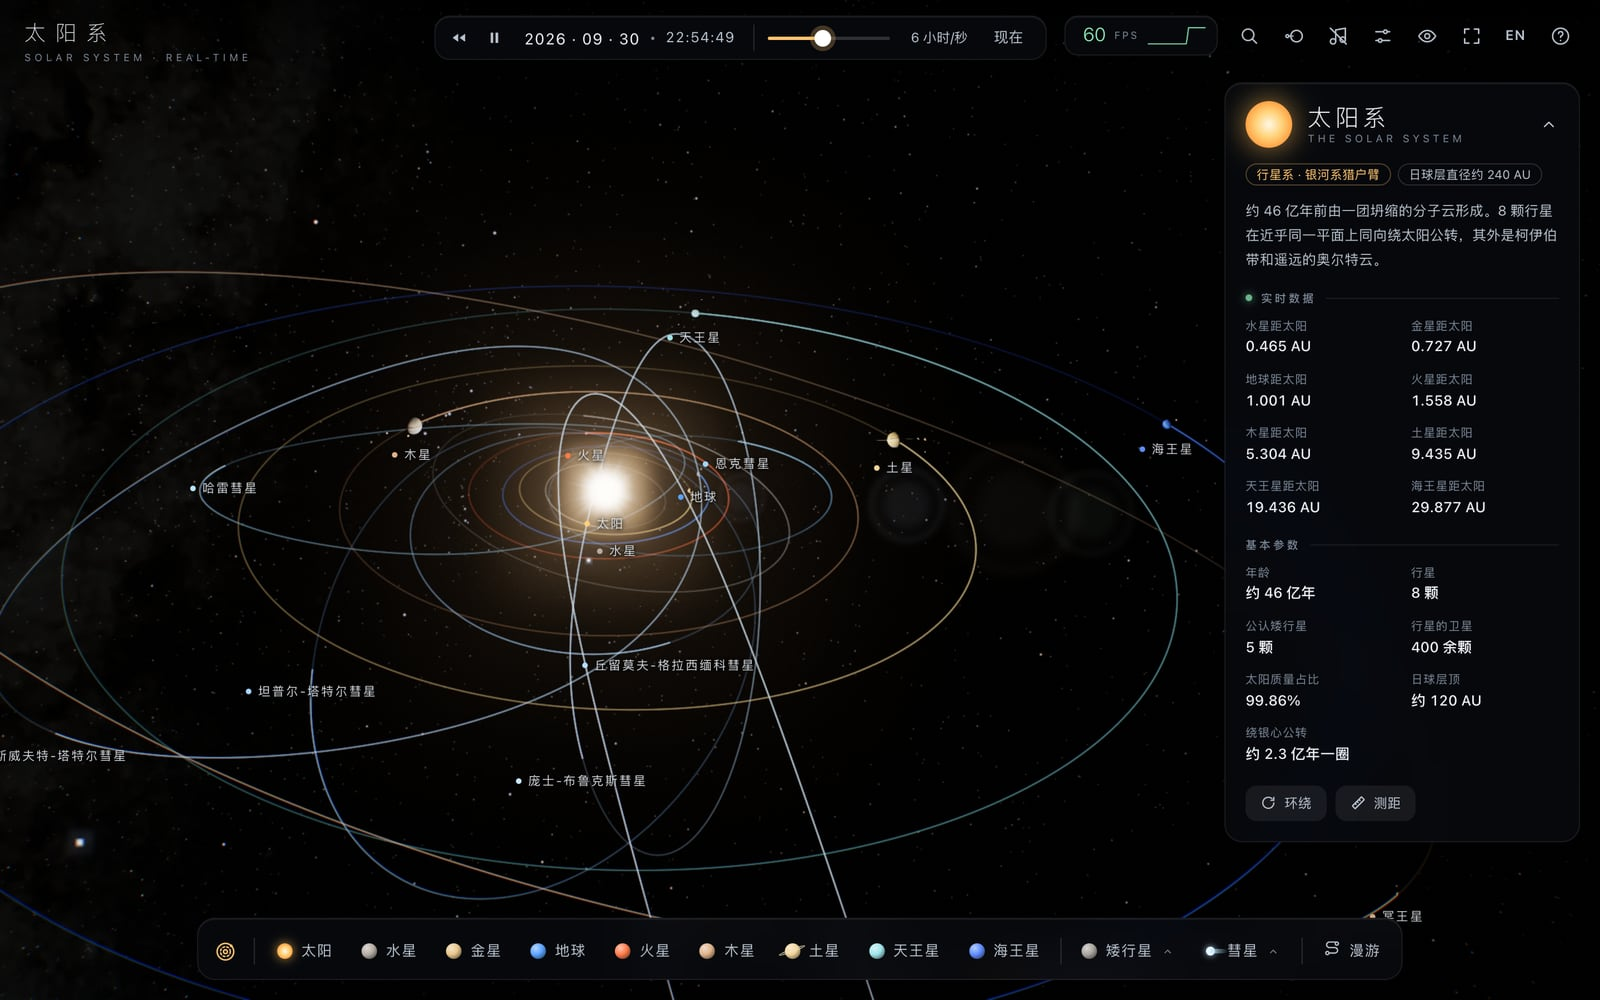
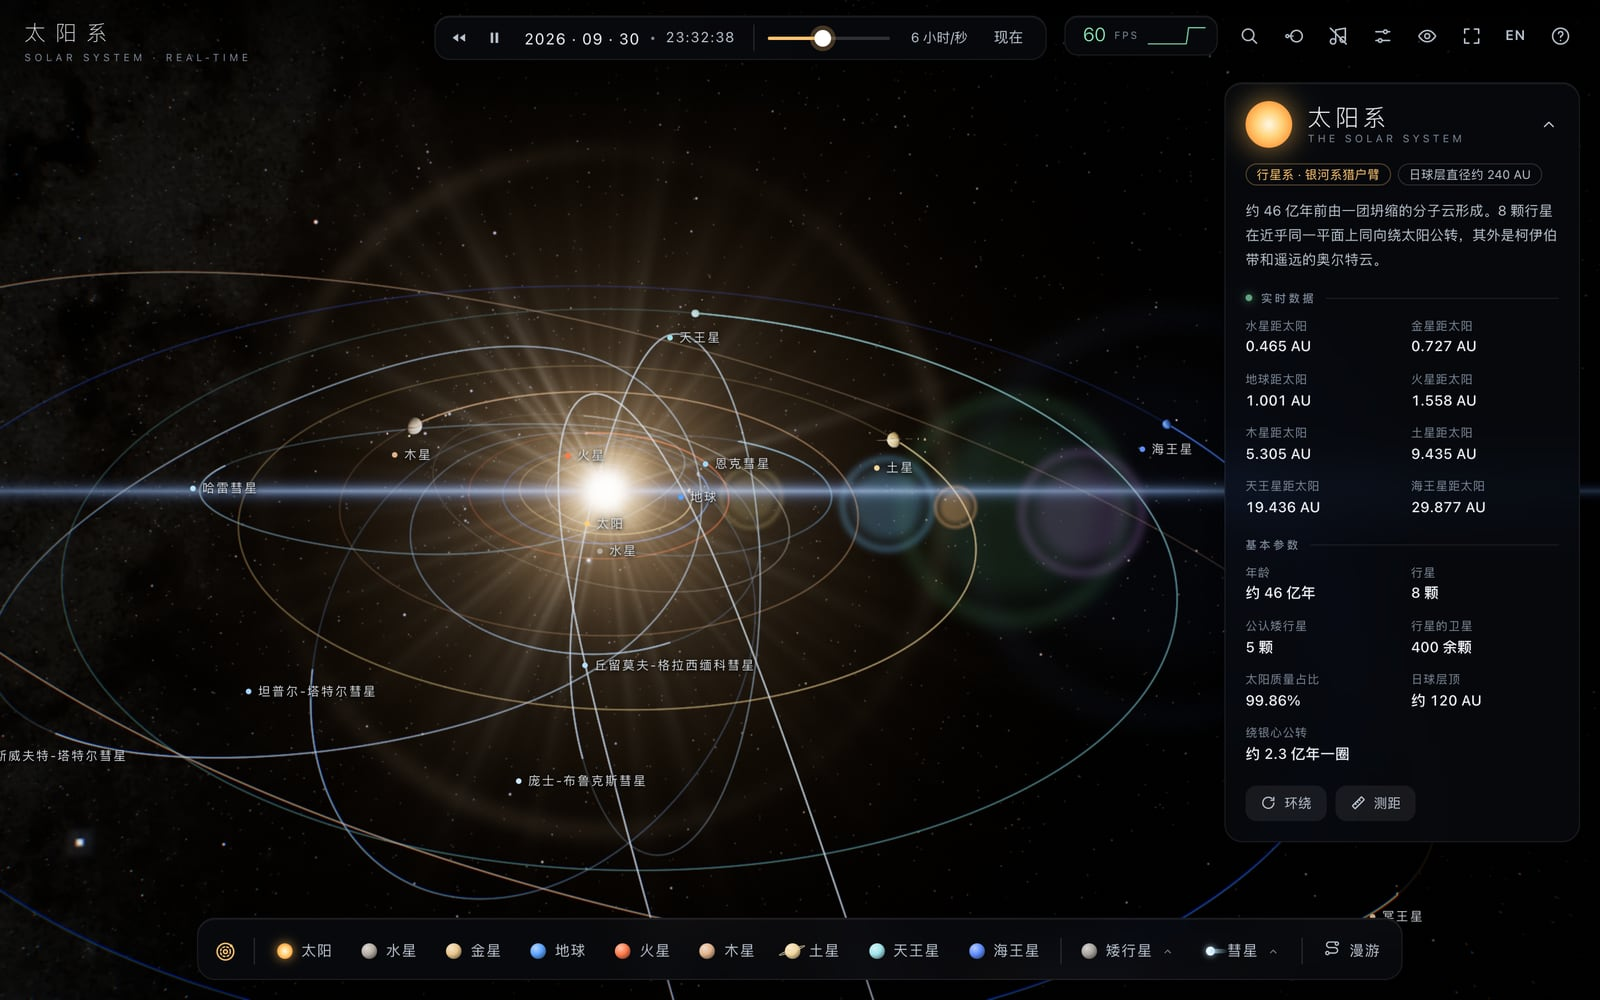
光影回退到上一版（镜头光晕与体积光）；银河去颗粒改为按亮度自适应的高斯低通，去掉中值滤波产生的刷痕状纹理（0.8 MB）

diff --git a/src/shaders.js b/src/shaders.js
@@ -590,19 +590,18 @@ const mat3 OM=mat3(1.60475,-.10208,-.00327,-.53108,1.10813,-.07276,-.07367,-.006
 // 场景 + 泛光（半分辨率泛光纹理线性采样，rgb·a 即原先加法混合的结果）
 vec3 src(vec2 uv){vec4 b=texture(tBloom,uv);return texture(tDiffuse,uv).rgb+b.rgb*(b.a*uBloom);}
 vec3 aces(vec3 v){v=IM*v;vec3 a=v*(v+.0245786)-.000090537,b=v*(.983729*v+.432951)+.238081;return clamp(OM*(a/b),0.,1.);}
-// 镜头光晕：只保留真实镜头里常见且克制的部分
-// · 鬼影：镜片间内反射，沿太阳—画面中心连线分布，小、淡、偏中性色
-// · 眩光：镜头内散射形成的平滑光晕（近似洛伦兹型点扩散函数），没有放射尖刺
-// 此前的横向蓝色光条（模仿变形宽银幕镜头）、噪声放射线与大光圈都显得假，已去掉
 vec3 flare(vec2 uv){
   vec2 as=vec2(uAspect,1.),p=(uv-.5)*as,s=(uSun-.5)*as;
   vec3 c=vec3(0.);
-  vec3 G[4]=vec3[](vec3(.55,.035,.16),vec3(1.1,.06,.09),vec3(1.5,.04,.11),vec3(-.3,.022,.12));
-  vec3 GC[4]=vec3[](vec3(.75,.85,1.),vec3(1.,.9,.75),vec3(.8,1.,.9),vec3(.9,.85,1.));
-  for(int i=0;i<4;i++){float d=length(p+s*G[i].x);float r=G[i].y;
-    c+=GC[i]*G[i].z*.35*(ss(r,r*.4,d)*.6+exp(-sq((d-r)/(r*.15)))*.4);}
-  float rr=length(p-s);
-  c+=vec3(1.,.92,.82)*(.05/(1.+sq(rr/.018))+.03*exp(-rr*5.));
+  vec3 G[6]=vec3[](vec3(.45,.045,.5),vec3(.8,.02,.8),vec3(1.1,.11,.14),vec3(1.45,.06,.3),vec3(-.25,.03,.35),vec3(1.9,.2,.07));
+  vec3 GC[6]=vec3[](vec3(.3,.7,1.),vec3(1.,.55,.25),vec3(.4,1.,.55),vec3(.75,.45,1.),vec3(1.,.85,.4),vec3(.35,.55,1.));
+  for(int i=0;i<6;i++){float d=length(p+s*G[i].x);float r=G[i].y;
+    c+=GC[i]*G[i].z*.6*(ss(r,r*.55,d)*.5+exp(-sq((d-r)/(r*.1)))*.5);}
+  vec2 ds=p-s;float rr=length(ds),ang=atan(ds.y,ds.x);
+  c+=vec3(1.,.8,.6)*exp(-sq((rr-.34)/.012))*.035*(.6+.4*sin(ang*3.+1.));
+  c+=vec3(.4,.6,1.)*exp(-abs(ds.y)*260.)*exp(-abs(ds.x)*1.6)*1.1;
+  float burst=snoise(vec3(ang*9.,0.,uTime*.05))*.5+.5;
+  c+=vec3(1.,.9,.75)*exp(-rr*9.)*(.25+.75*pow(max(burst,0.),3.))*.5;
   return c;
 }
 void main(){

diff --git a/src/main.js b/src/main.js
@@ -938,10 +938,7 @@ function updateSunFx(dt) {
   // 太阳在镜头后方时投影点会镜像到画面内，必须关掉；离画面较远时贡献也可忽略，整个跳过以省下三次全屏渲染
   const inFront = camDir.dot(tmp2.copy(camera.position).negate()) > 0;
   const nearView = inFront ? 1 - smooth(1.2, 2.2, Math.max(Math.abs(p.x), Math.abs(p.y))) : 0;
-  // 体积光（屏幕空间径向模糊）是电影化手法：太阳被天体部分或完全遮住、光从边缘漏出时才有意义，此时满强度；
-  // 太阳完全可见时只留一点；太阳小到只有几个像素时关掉，否则会从单个亮像素拉出一圈放射尖刺
-  const hidden = smooth(0.03, 0.3, 1 - sunVis);
-  u.uRays.value = settings.rays ? 0.9 * (0.2 + 0.8 * hidden) * smooth(0.003, 0.015, frac) * (1 - smooth(0.25, 0.8, frac)) * nearView : 0;
+  u.uRays.value = settings.rays ? 0.9 * (1 - smooth(0.25, 0.8, frac)) * nearView : 0;
   raysPass.enabled = u.uRays.value > 0.002;
   // 靠近太阳时像真实相机一样压低曝光，才能看清米粒组织与黑子
   const close = smooth(0.1, 0.4, frac) * onScreen;
